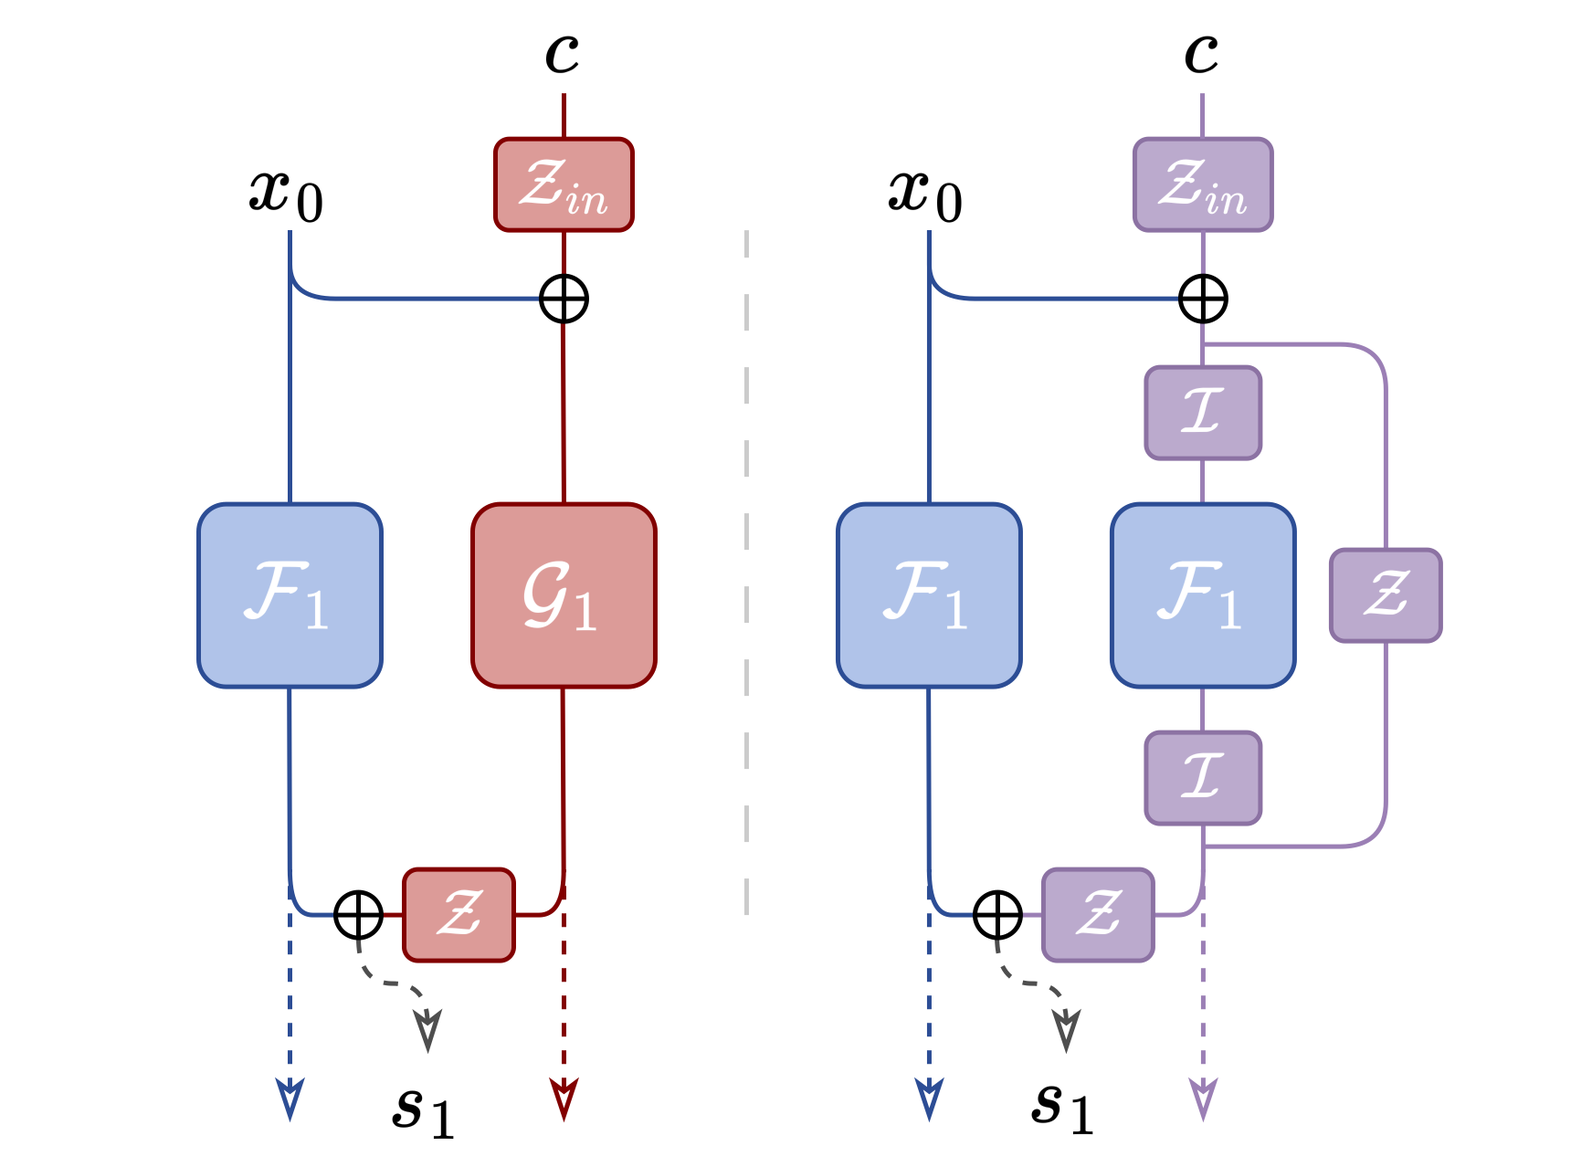
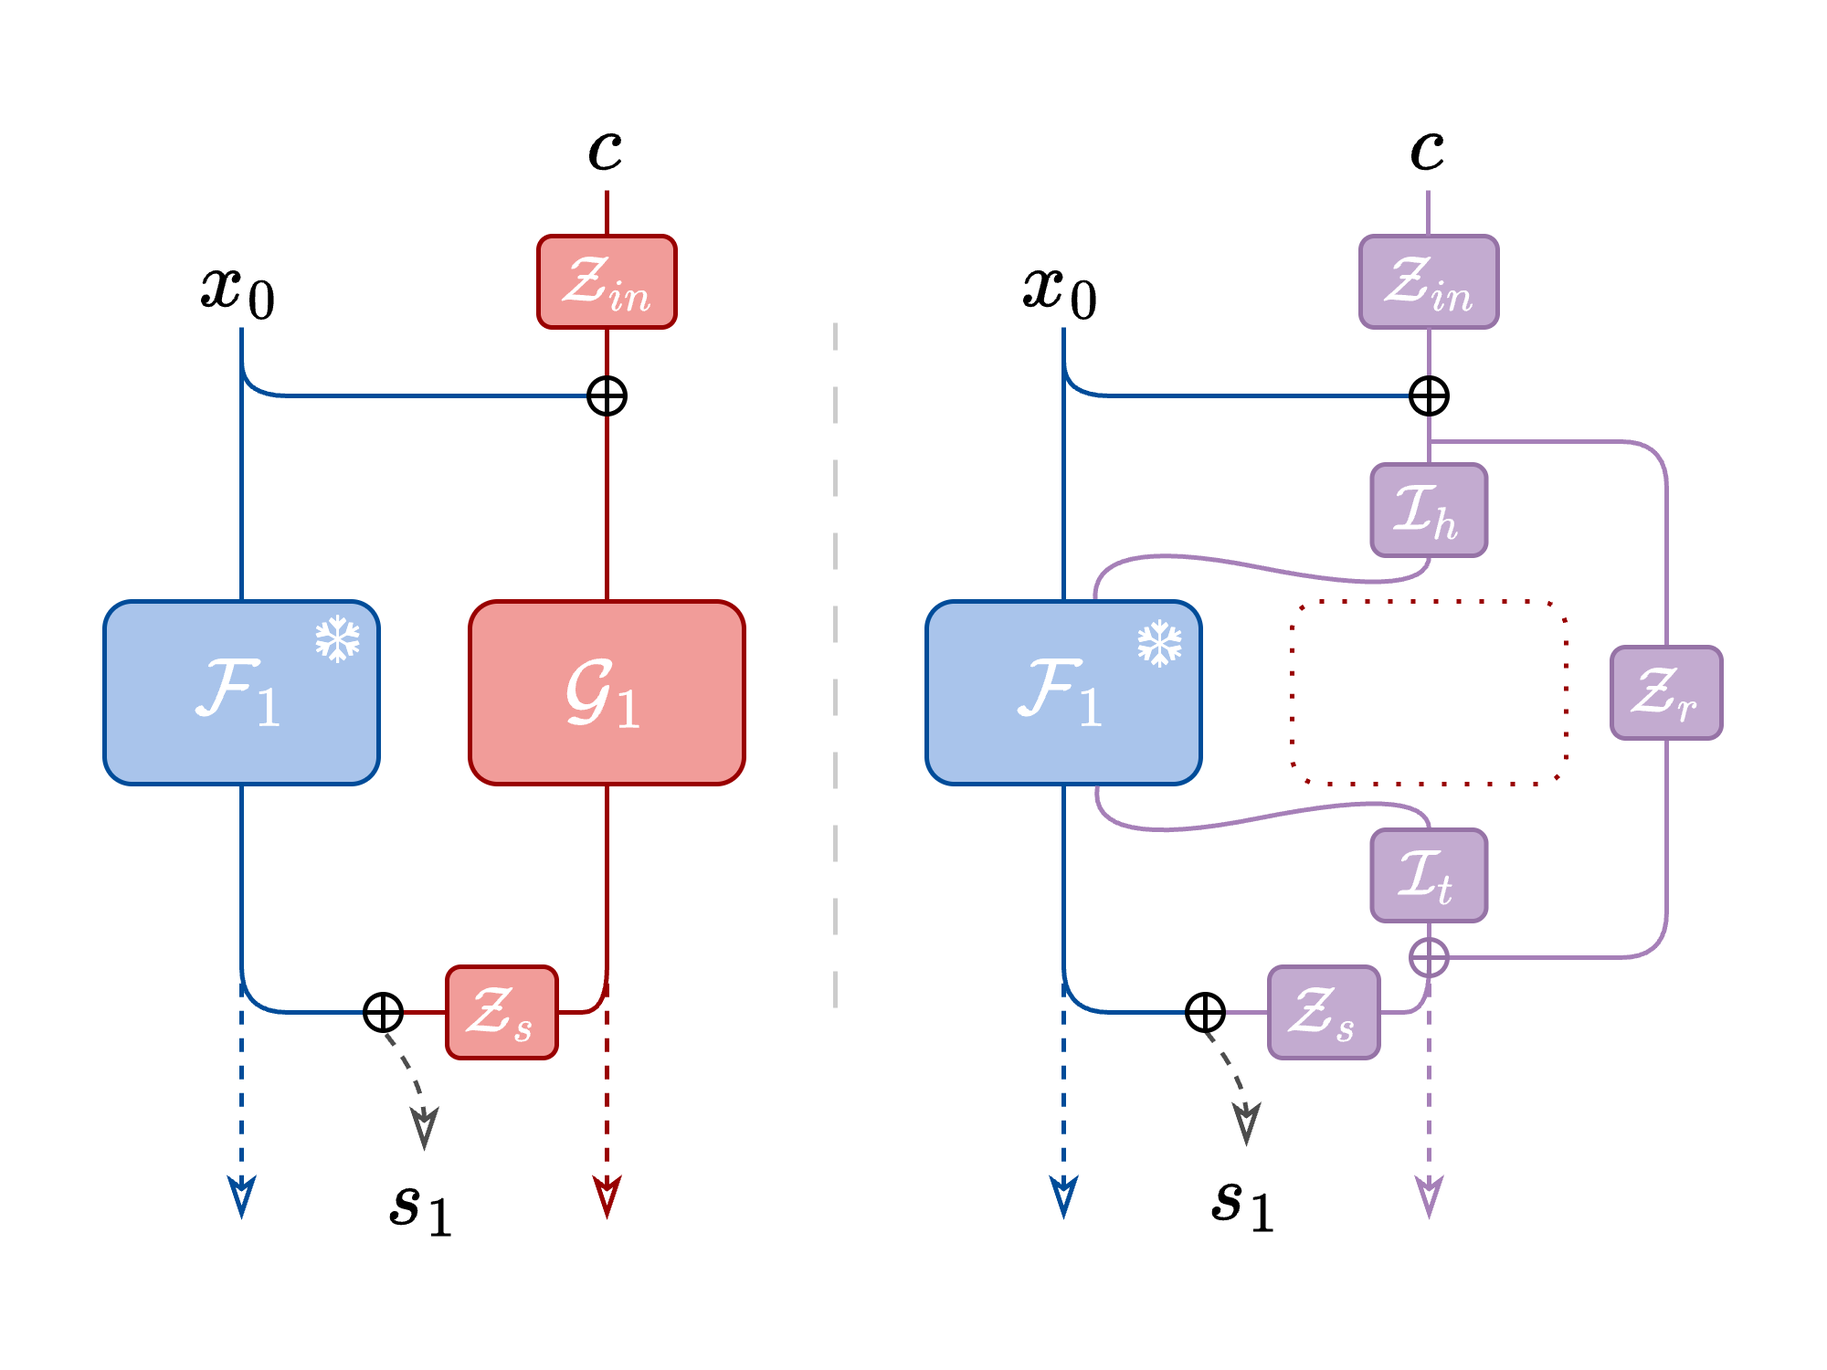
Updated information on webpage

diff --git a/index.md b/index.md
@@ -2,25 +2,40 @@
 layout: default
 title: LiLAC - A Lightweight Latent ControlNet for Musical Audio Generation
 description: Audio Examples
+authors:
+  - name: "Author Name 1"
+    affiliation: "University/Institution 1"
+  - name: "Author Name 2"
+    affiliation: "University/Institution 2"
 ---
 
+## Authors
+**Author Name 1**<sup>1</sup>, **Author Name 2**<sup>2</sup>
+
+<sup>1</sup>University/Institution 1  
+<sup>2</sup>University/Institution 2
+
 ## Abstract
-Text-to-audio diffusion models produce high-quality and diverse music but lack fine-grained, time-varying controls, which are essential for music production. ControlNet enables attaching external controls to a pre-trained generative model by cloning and fine-tuning its encoder on new conditionings. However, this approach incurs a large memory footprint and restricts users to a fixed set of controls. We propose a lightweight, modular architecture that considerably reduces parameter count while matching ControlNet in audio quality and condition adherence. Our method offers greater flexibility and significantly lower memory usage, enabling more efficient training and deployment of independent controls. We conduct extensive objective and subjective evaluations, see complete paper for more details.
+Text-to-audio diffusion models produce high-quality and diverse music but many, if not most, of the SOTA models lack the fine-grained, time-varying controls essential for music production. ControlNet enables attaching external controls to a pre-trained generative model by cloning and fine-tuning its encoder on new conditionings. However, this approach incurs a large memory footprint and restricts users to a fixed set of controls. We propose a lightweight, modular architecture that considerably reduces parameter count while matching ControlNet in audio quality and condition adherence. Our method offers greater flexibility and significantly lower memory usage, enabling more efficient training and deployment of independent controls. We conduct extensive objective and subjective evaluations, see complete paper for more details.
 
 ---
 
 ## Architecture Overview
+
+Our work, **LiLAC**, introduces a lightweight, parameter-efficient alternative to the commonly used ControlNet model for appending post-hoc controls to pre-trained models. Instead of cloning the backbone's computationally expensive encoder blocks, we leverage the existing frozen blocks by performing a second pass through them, wrapped by small, trainable adaptor layers.
+
 <div style="width: 50%; margin: 0 auto;">
     <img src="assets/LiLAC.png" alt="Architecture Diagram" style="width: 100%;">
 </div>
-Here is a outline showing how the LiLAC architecture compares to ControlNet. Instead of the cloning encoder blocks of the backbone model we intend to append controls to, we instead  perform a second pass through each of the models frozen encoder blocks, wrapped by smaller convolutional layers. 
 
-Specifically, we introduce three layers per block: 
+Specifically, we introduce three layers per encoder block as shown in the figure above: 
 - a *Head* layer before the frozen block 
 - a *Tail* layer after the frozen block 
 - a *Residual* connection to preserve condition information as it passes through the frozen block
 
-This design achieves a significant reduction in parameters while maintaining comparable performance to the original ControlNet implementation. Utilising Diff-a-Riff as our backbone model, our lightest configuration using only head layers (LiLAC<sup>H</sup>) consists of only 32M parameters compared to ControlNet's 165M parameters.
+To ensure training stability, we initialize the Head and Tail layers as Identity convolutions, which mirrors the backbone's pathway from the start. The residual connection is initialized as a zero convolution, following the ControlNet methodology. This allows the conditional signal to be introduced gradually during training.
+
+This design achieves a significant reduction in parameters while objective and subjective evaluations show it maintains comparable performance to the original ControlNet implementation. Using Diff-a-Riff as our backbone, our lightest configuration using only head layers (LiLAC<sup>H</sup>) consists of only 32M parameters, a reduction of 81% compared to ControlNet's 165M parameters. On heavier architectures such as Stable Audio Open this would provide a 90% reduction from 552M down to only 57M. This extra available parameter overhead allows for flexible and modular training of multiple independent controls without retraining the backbone model.
 
 
 ---
@@ -28,17 +43,127 @@ This design achieves a significant reduction in parameters while maintaining com
 ## Audio Examples
 This page presents a collection of randomly generated audio examples that demonstrate the capabilities of our proposed LiLAC architecture in comparison to traditional approaches. Each example consists of a 10-second audio segment generated using [Diff-a-Riff](https://arxiv.org/abs/2406.08384) as the backbone model, with a *Classifier-Free Guidance* (CFG) value of 0.25, 30 *inference steps*, and *CLAP embedding* for text conditioning.
 
-For comprehensive comparison, we provide the following versions of each example:
-- The original reference stem
-- Output generated using our lightweight LiLAC<sup>H</sup> configuration
-- Output generated using our optimal LiLAC<sup>HTR</sup> configuration
-- Output generated using the standard ControlNet architecture
-- Output generated without additional control conditioning (Unconditioned)
+FFor comprehensive comparison, we provide the following versions for each example:
+- **Original reference stem** - The source audio
+- **LiLAC<sup>H</sup>** - Output from our lightweight head-only configuration
+- **LiLAC<sup>HTR</sup>** - Output from our optimal head-tail-residual configuration  
+- **ControlNet** - Output from the standard ControlNet architecture
+- **Unconditioned** - Output generated without additional control conditioning
 
-We provide examples from both conditions used in the paper - Chord and Chroma conditioning. We provide a brief description below, for more information, please check out the paper linked at the top of the page.
+Below we showcase audio examples demonstrating both conditioning types explored in our paper - Chord and Chroma conditioning. Each example demonstrates how our model responds to different types of musical control signals. For detailed technical analysis of these conditions, please refer to the full paper linked above.
+
+### Chroma Conditioning
+The chroma conditioning examples utilize chromagrams extracted directly from individual stems. Chromagrams represent the normalised intensity of different pitch classes (C, C#, D, etc.) over time, providing detailed harmonic data of the original audio. The models attempt to recreate audio with similar pitch content based on these chromagrams, while maintaining timbral characteristics specified by the CLAP embedding. 
+
+<table>
+  <thead>
+    <tr>
+      <th>Instrument</th>
+      <th>Original</th>
+      <th>LiLAC<sup>H</sup></th>
+      <th>LiLAC<sup>HTR</sup></th>
+      <th>ControlNet</th>
+      <th>Unconditioned</th>
+      <th>Chroma Condition</th>
+    </tr>
+  </thead>
+  <tbody>
+    <tr>
+      <td>Woodwinds</td>
+      <td><audio controls src="assets/audio/chroma/0o.mp3" class="small-audio"></audio></td>
+      <td><audio controls src="assets/audio/chroma/0lh.mp3" class="small-audio"></audio></td>
+      <td><audio controls src="assets/audio/chroma/0lhtr.mp3" class="small-audio"></audio></td>
+      <td><audio controls src="assets/audio/chroma/0c.mp3" class="small-audio"></audio></td>
+      <td><audio controls src="assets/audio/chroma/0u.mp3" class="small-audio"></audio></td>
+      <td><img src="assets/images/chroma/0.png" style="width: 100%;"></td>
+    </tr>
+    <tr>
+      <td>Electric Guitar</td>
+      <td><audio controls src="assets/audio/chroma/3o.mp3" class="small-audio"></audio></td>
+      <td><audio controls src="assets/audio/chroma/3lh.mp3" class="small-audio"></audio></td>
+      <td><audio controls src="assets/audio/chroma/3lhtr.mp3" class="small-audio"></audio></td>
+      <td><audio controls src="assets/audio/chroma/3c.mp3" class="small-audio"></audio></td>
+      <td><audio controls src="assets/audio/chroma/3u.mp3" class="small-audio"></audio></td>
+      <td><img src="assets/images/chroma/3.png" style="width: 100%;"></td>
+    </tr>
+    <tr>
+      <td>Arpegiator</td>
+      <td><audio controls src="assets/audio/chroma/4o.mp3" class="small-audio"></audio></td>
+      <td><audio controls src="assets/audio/chroma/4lh.mp3" class="small-audio"></audio></td>
+      <td><audio controls src="assets/audio/chroma/4lhtr.mp3" class="small-audio"></audio></td>
+      <td><audio controls src="assets/audio/chroma/4c.mp3" class="small-audio"></audio></td>
+      <td><audio controls src="assets/audio/chroma/4u.mp3" class="small-audio"></audio></td>
+      <td><img src="assets/images/chroma/4.png" style="width: 100%;"></td>
+    </tr>
+    <tr>
+      <td>Guitar</td>
+      <td><audio controls src="assets/audio/chroma/6o.mp3" class="small-audio"></audio></td>
+      <td><audio controls src="assets/audio/chroma/6lh.mp3" class="small-audio"></audio></td>
+      <td><audio controls src="assets/audio/chroma/6lhtr.mp3" class="small-audio"></audio></td>
+      <td><audio controls src="assets/audio/chroma/6c.mp3" class="small-audio"></audio></td>
+      <td><audio controls src="assets/audio/chroma/6u.mp3" class="small-audio"></audio></td>
+      <td><img src="assets/images/chroma/6.png" style="width: 100%;"></td>
+    </tr>
+    <tr>
+      <td>Rhythm Electric Guitar</td>
+      <td><audio controls src="assets/audio/chroma/8o.mp3" class="small-audio"></audio></td>
+      <td><audio controls src="assets/audio/chroma/8lh.mp3" class="small-audio"></audio></td>
+      <td><audio controls src="assets/audio/chroma/8lhtr.mp3" class="small-audio"></audio></td>
+      <td><audio controls src="assets/audio/chroma/8c.mp3" class="small-audio"></audio></td>
+      <td><audio controls src="assets/audio/chroma/8u.mp3" class="small-audio"></audio></td>
+      <td><img src="assets/images/chroma/8.png" style="width: 100%;"></td>
+    </tr>
+    <tr>
+      <td>Electric Guitar</td>
+      <td><audio controls src="assets/audio/chroma/9o.mp3" class="small-audio"></audio></td>
+      <td><audio controls src="assets/audio/chroma/9lh.mp3" class="small-audio"></audio></td>
+      <td><audio controls src="assets/audio/chroma/9lhtr.mp3" class="small-audio"></audio></td>
+      <td><audio controls src="assets/audio/chroma/9c.mp3" class="small-audio"></audio></td>
+      <td><audio controls src="assets/audio/chroma/9u.mp3" class="small-audio"></audio></td>
+      <td><img src="assets/images/chroma/9.png" style="width: 100%;"></td>
+    </tr>
+    <tr>
+      <td>Piano</td>
+      <td><audio controls src="assets/audio/chroma/10o.mp3" class="small-audio"></audio></td>
+      <td><audio controls src="assets/audio/chroma/10lh.mp3" class="small-audio"></audio></td>
+      <td><audio controls src="assets/audio/chroma/10lhtr.mp3" class="small-audio"></audio></td>
+      <td><audio controls src="assets/audio/chroma/10c.mp3" class="small-audio"></audio></td>
+      <td><audio controls src="assets/audio/chroma/10u.mp3" class="small-audio"></audio></td>
+      <td><img src="assets/images/chroma/10.png" style="width: 100%;"></td>
+    </tr>
+    <tr>
+      <td>Electric Guitar</td>
+      <td><audio controls src="assets/audio/chroma/11o.mp3" class="small-audio"></audio></td>
+      <td><audio controls src="assets/audio/chroma/11lh.mp3" class="small-audio"></audio></td>
+      <td><audio controls src="assets/audio/chroma/11lhtr.mp3" class="small-audio"></audio></td>
+      <td><audio controls src="assets/audio/chroma/11c.mp3" class="small-audio"></audio></td>
+      <td><audio controls src="assets/audio/chroma/11u.mp3" class="small-audio"></audio></td>
+      <td><img src="assets/images/chroma/11.png" style="width: 100%;"></td>
+    </tr>
+    <tr>
+      <td>Electric Bass</td>
+      <td><audio controls src="assets/audio/chroma/14o.mp3" class="small-audio"></audio></td>
+      <td><audio controls src="assets/audio/chroma/14lh.mp3" class="small-audio"></audio></td>
+      <td><audio controls src="assets/audio/chroma/14lhtr.mp3" class="small-audio"></audio></td>
+      <td><audio controls src="assets/audio/chroma/14c.mp3" class="small-audio"></audio></td>
+      <td><audio controls src="assets/audio/chroma/14u.mp3" class="small-audio"></audio></td>
+      <td><img src="assets/images/chroma/14.png" style="width: 100%;"></td>
+    </tr>
+    <tr>
+      <td>Organ</td>
+      <td><audio controls src="assets/audio/chroma/15o.mp3" class="small-audio"></audio></td>
+      <td><audio controls src="assets/audio/chroma/15lh.mp3" class="small-audio"></audio></td>
+      <td><audio controls src="assets/audio/chroma/15lhtr.mp3" class="small-audio"></audio></td>
+      <td><audio controls src="assets/audio/chroma/15c.mp3" class="small-audio"></audio></td>
+      <td><audio controls src="assets/audio/chroma/15u.mp3" class="small-audio"></audio></td>
+      <td><img src="assets/images/chroma/15.png" style="width: 100%;"></td>
+    </tr>
+  </tbody>
+</table>
+
 
 ### Chord Conditioning
-For the chord conditioning examples, we extracted chord progressions from complete multitrack recordings (panned to the right in the audio examples). These chord progressions were then used to guide the generation of a complementary stem, with instrument classification informed by the CLAP embedding of the target stem.
+For chord conditioning, we extracted chord progressions from full multitrack recordings. In the audio examples, these reference chords are panned right while the generated complementary stem is panned left. The chord conditions are represented similar to chromagrams: root notes have value 2, other chord notes value 1, and non-chord notes value 0. The generated audio's instrumental characteristics are guided by CLAP embeddings.
 
 <table>
   <thead>
@@ -187,116 +312,6 @@ For the chord conditioning examples, we extracted chord progressions from comple
       <td><audio controls src="assets/audio/chords/38c.mp3" class="small-audio"></audio></td>
       <td><audio controls src="assets/audio/chords/38u.mp3" class="small-audio"></audio></td>
       <td><img src="assets/images/chords/38.png" style="width: 100%;"></td>
-    </tr>
-  </tbody>
-</table>
-
-
-### Chroma Conditioning
-The chroma conditioning examples utilize chromagrams extracted directly from individual stems. The models attempt to recreate audio with similar pitch content based on these chromagrams.
-
-<table>
-  <thead>
-    <tr>
-      <th>Instrument</th>
-      <th>Original</th>
-      <th>LiLAC<sup>H</sup></th>
-      <th>LiLAC<sup>HTR</sup></th>
-      <th>ControlNet</th>
-      <th>Unconditioned</th>
-      <th>Chroma Condition</th>
-    </tr>
-  </thead>
-  <tbody>
-    <tr>
-      <td>Woodwinds</td>
-      <td><audio controls src="assets/audio/chroma/0o.mp3" class="small-audio"></audio></td>
-      <td><audio controls src="assets/audio/chroma/0lh.mp3" class="small-audio"></audio></td>
-      <td><audio controls src="assets/audio/chroma/0lhtr.mp3" class="small-audio"></audio></td>
-      <td><audio controls src="assets/audio/chroma/0c.mp3" class="small-audio"></audio></td>
-      <td><audio controls src="assets/audio/chroma/0u.mp3" class="small-audio"></audio></td>
-      <td><img src="assets/images/chroma/0.png" style="width: 100%;"></td>
-    </tr>
-    <tr>
-      <td>Electric Guitar</td>
-      <td><audio controls src="assets/audio/chroma/3o.mp3" class="small-audio"></audio></td>
-      <td><audio controls src="assets/audio/chroma/3lh.mp3" class="small-audio"></audio></td>
-      <td><audio controls src="assets/audio/chroma/3lhtr.mp3" class="small-audio"></audio></td>
-      <td><audio controls src="assets/audio/chroma/3c.mp3" class="small-audio"></audio></td>
-      <td><audio controls src="assets/audio/chroma/3u.mp3" class="small-audio"></audio></td>
-      <td><img src="assets/images/chroma/3.png" style="width: 100%;"></td>
-    </tr>
-    <tr>
-      <td>Arpegiator</td>
-      <td><audio controls src="assets/audio/chroma/4o.mp3" class="small-audio"></audio></td>
-      <td><audio controls src="assets/audio/chroma/4lh.mp3" class="small-audio"></audio></td>
-      <td><audio controls src="assets/audio/chroma/4lhtr.mp3" class="small-audio"></audio></td>
-      <td><audio controls src="assets/audio/chroma/4c.mp3" class="small-audio"></audio></td>
-      <td><audio controls src="assets/audio/chroma/4u.mp3" class="small-audio"></audio></td>
-      <td><img src="assets/images/chroma/4.png" style="width: 100%;"></td>
-    </tr>
-    <tr>
-      <td>Guitar</td>
-      <td><audio controls src="assets/audio/chroma/6o.mp3" class="small-audio"></audio></td>
-      <td><audio controls src="assets/audio/chroma/6lh.mp3" class="small-audio"></audio></td>
-      <td><audio controls src="assets/audio/chroma/6lhtr.mp3" class="small-audio"></audio></td>
-      <td><audio controls src="assets/audio/chroma/6c.mp3" class="small-audio"></audio></td>
-      <td><audio controls src="assets/audio/chroma/6u.mp3" class="small-audio"></audio></td>
-      <td><img src="assets/images/chroma/6.png" style="width: 100%;"></td>
-    </tr>
-    <tr>
-      <td>Rhythm Electric Guitar</td>
-      <td><audio controls src="assets/audio/chroma/8o.mp3" class="small-audio"></audio></td>
-      <td><audio controls src="assets/audio/chroma/8lh.mp3" class="small-audio"></audio></td>
-      <td><audio controls src="assets/audio/chroma/8lhtr.mp3" class="small-audio"></audio></td>
-      <td><audio controls src="assets/audio/chroma/8c.mp3" class="small-audio"></audio></td>
-      <td><audio controls src="assets/audio/chroma/8u.mp3" class="small-audio"></audio></td>
-      <td><img src="assets/images/chroma/8.png" style="width: 100%;"></td>
-    </tr>
-    <tr>
-      <td>Electric Guitar</td>
-      <td><audio controls src="assets/audio/chroma/9o.mp3" class="small-audio"></audio></td>
-      <td><audio controls src="assets/audio/chroma/9lh.mp3" class="small-audio"></audio></td>
-      <td><audio controls src="assets/audio/chroma/9lhtr.mp3" class="small-audio"></audio></td>
-      <td><audio controls src="assets/audio/chroma/9c.mp3" class="small-audio"></audio></td>
-      <td><audio controls src="assets/audio/chroma/9u.mp3" class="small-audio"></audio></td>
-      <td><img src="assets/images/chroma/9.png" style="width: 100%;"></td>
-    </tr>
-    <tr>
-      <td>Piano</td>
-      <td><audio controls src="assets/audio/chroma/10o.mp3" class="small-audio"></audio></td>
-      <td><audio controls src="assets/audio/chroma/10lh.mp3" class="small-audio"></audio></td>
-      <td><audio controls src="assets/audio/chroma/10lhtr.mp3" class="small-audio"></audio></td>
-      <td><audio controls src="assets/audio/chroma/10c.mp3" class="small-audio"></audio></td>
-      <td><audio controls src="assets/audio/chroma/10u.mp3" class="small-audio"></audio></td>
-      <td><img src="assets/images/chroma/10.png" style="width: 100%;"></td>
-    </tr>
-    <tr>
-      <td>Electric Guitar</td>
-      <td><audio controls src="assets/audio/chroma/11o.mp3" class="small-audio"></audio></td>
-      <td><audio controls src="assets/audio/chroma/11lh.mp3" class="small-audio"></audio></td>
-      <td><audio controls src="assets/audio/chroma/11lhtr.mp3" class="small-audio"></audio></td>
-      <td><audio controls src="assets/audio/chroma/11c.mp3" class="small-audio"></audio></td>
-      <td><audio controls src="assets/audio/chroma/11u.mp3" class="small-audio"></audio></td>
-      <td><img src="assets/images/chroma/11.png" style="width: 100%;"></td>
-    </tr>
-    <tr>
-      <td>Electric Bass</td>
-      <td><audio controls src="assets/audio/chroma/14o.mp3" class="small-audio"></audio></td>
-      <td><audio controls src="assets/audio/chroma/14lh.mp3" class="small-audio"></audio></td>
-      <td><audio controls src="assets/audio/chroma/14lhtr.mp3" class="small-audio"></audio></td>
-      <td><audio controls src="assets/audio/chroma/14c.mp3" class="small-audio"></audio></td>
-      <td><audio controls src="assets/audio/chroma/14u.mp3" class="small-audio"></audio></td>
-      <td><img src="assets/images/chroma/14.png" style="width: 100%;"></td>
-    </tr>
-    <tr>
-      <td>Organ</td>
-      <td><audio controls src="assets/audio/chroma/15o.mp3" class="small-audio"></audio></td>
-      <td><audio controls src="assets/audio/chroma/15lh.mp3" class="small-audio"></audio></td>
-      <td><audio controls src="assets/audio/chroma/15lhtr.mp3" class="small-audio"></audio></td>
-      <td><audio controls src="assets/audio/chroma/15c.mp3" class="small-audio"></audio></td>
-      <td><audio controls src="assets/audio/chroma/15u.mp3" class="small-audio"></audio></td>
-      <td><img src="assets/images/chroma/15.png" style="width: 100%;"></td>
     </tr>
   </tbody>
 </table>
